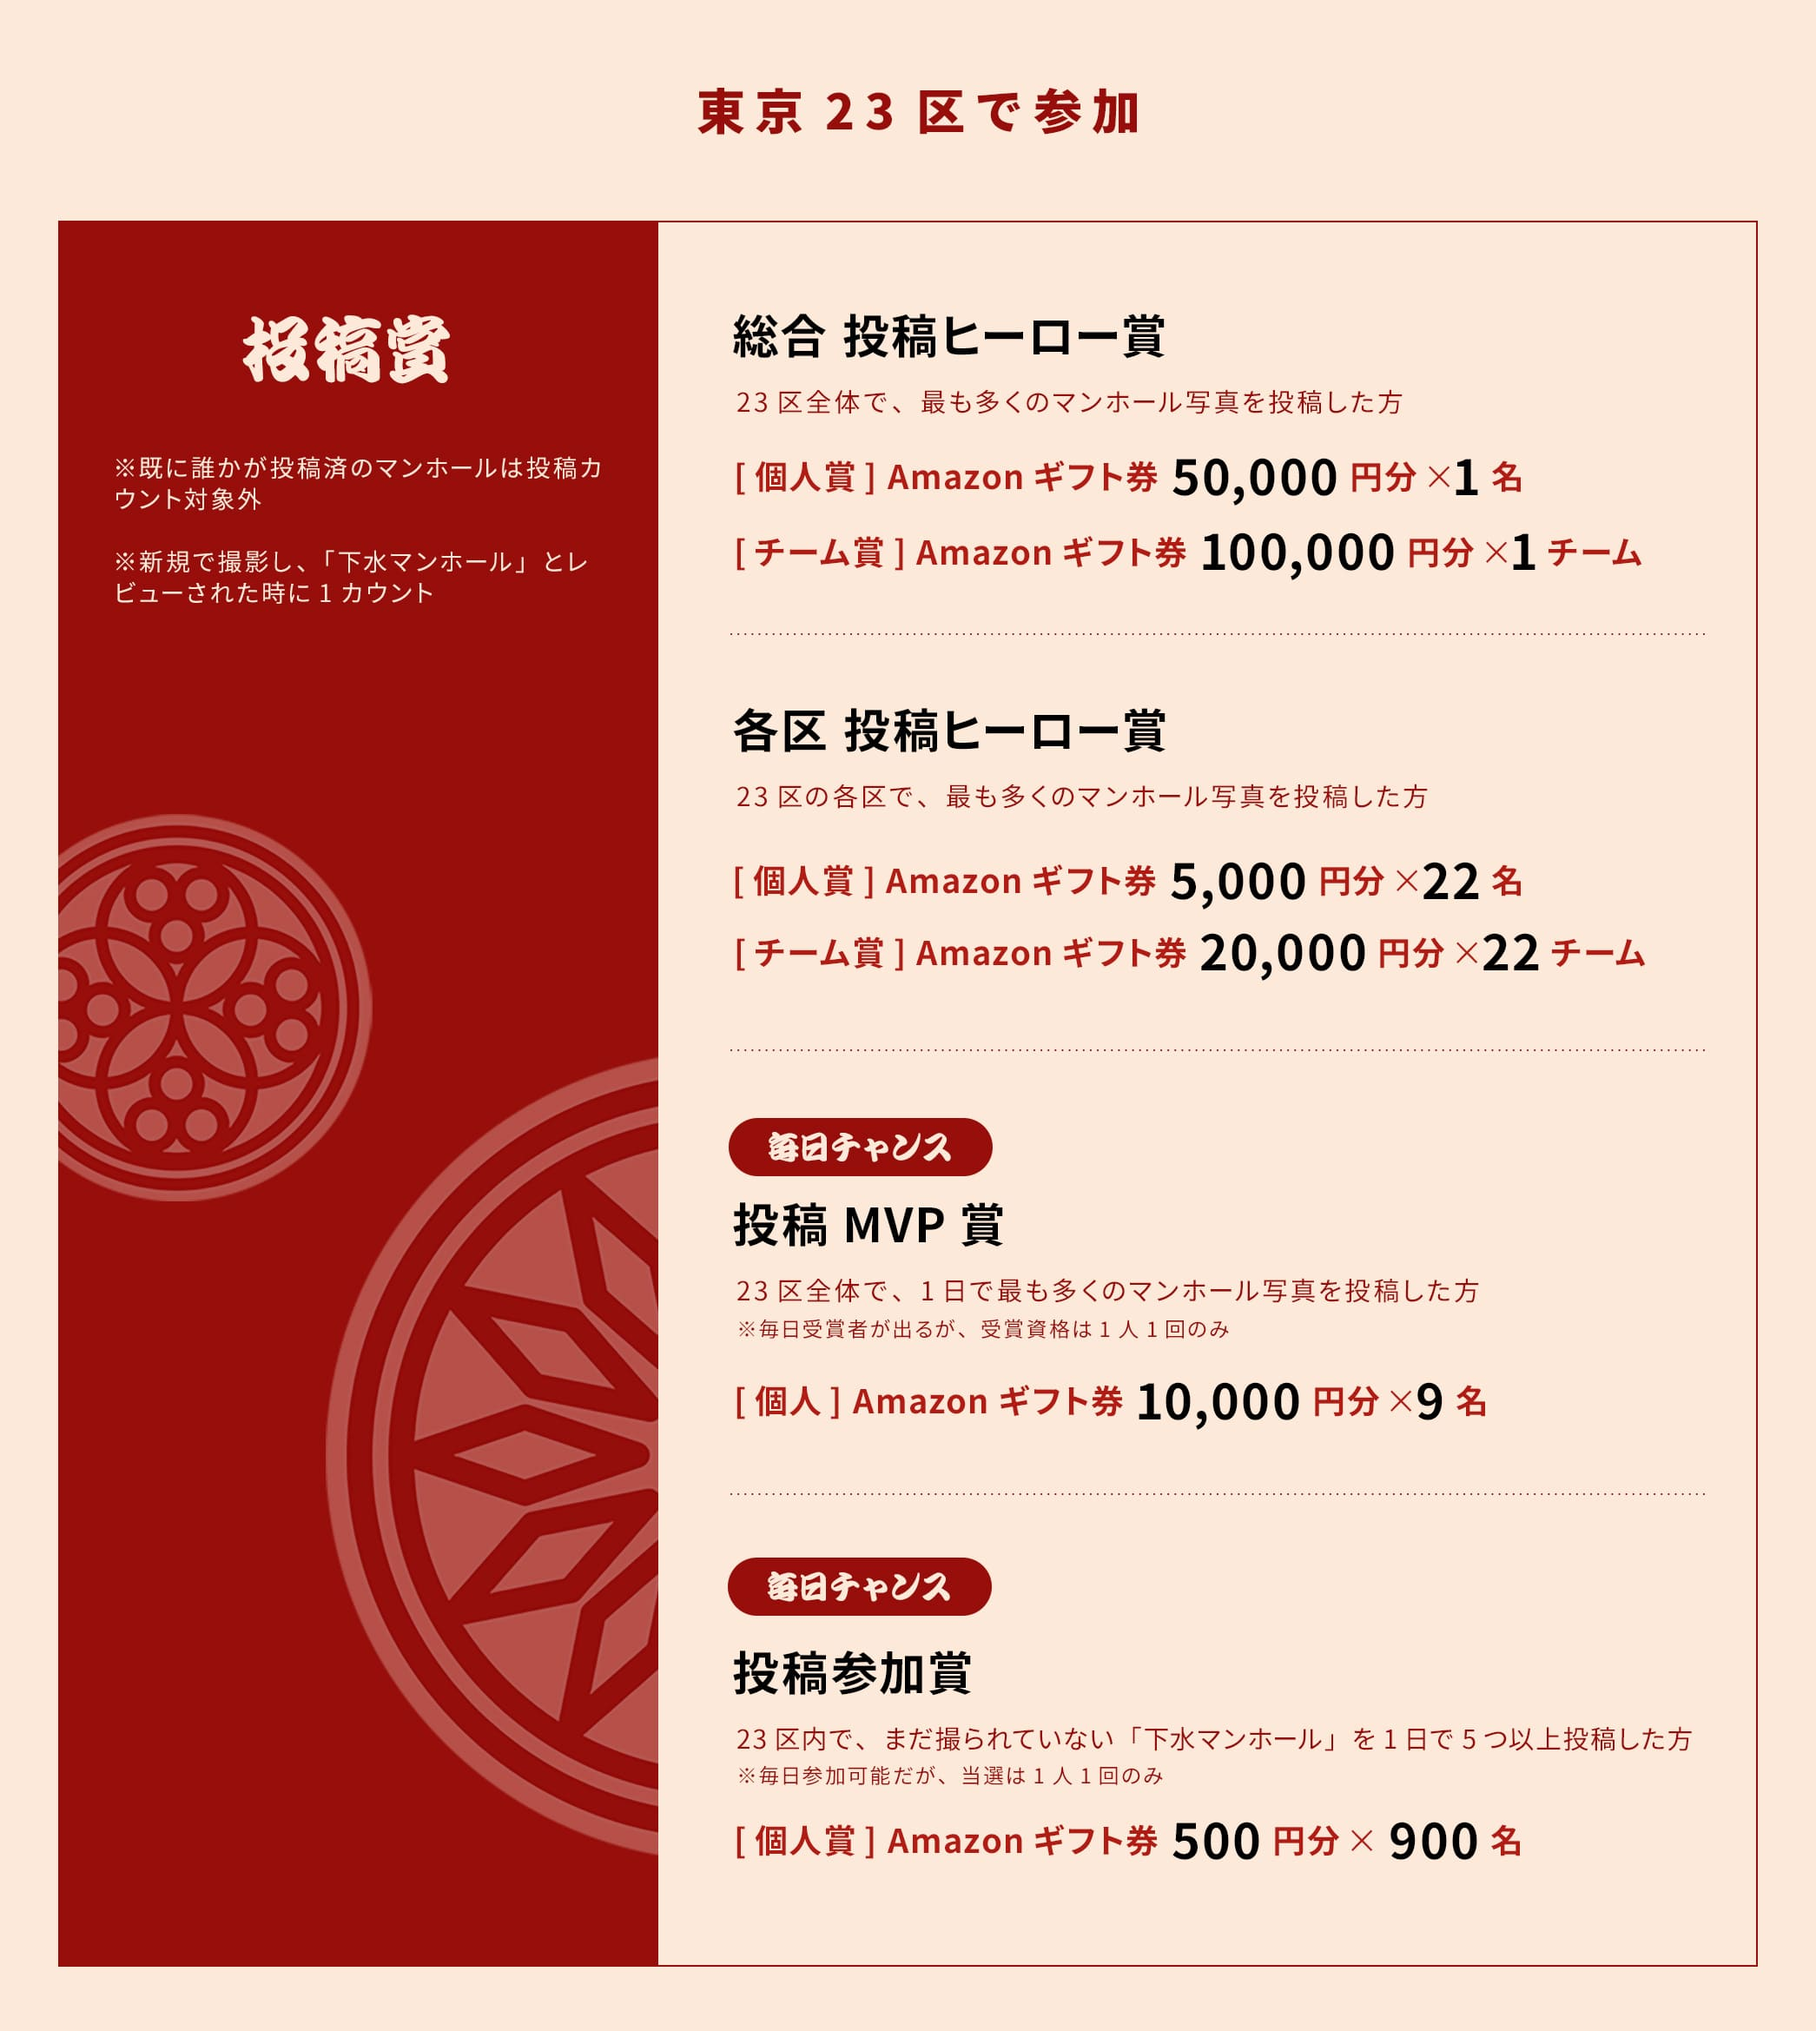
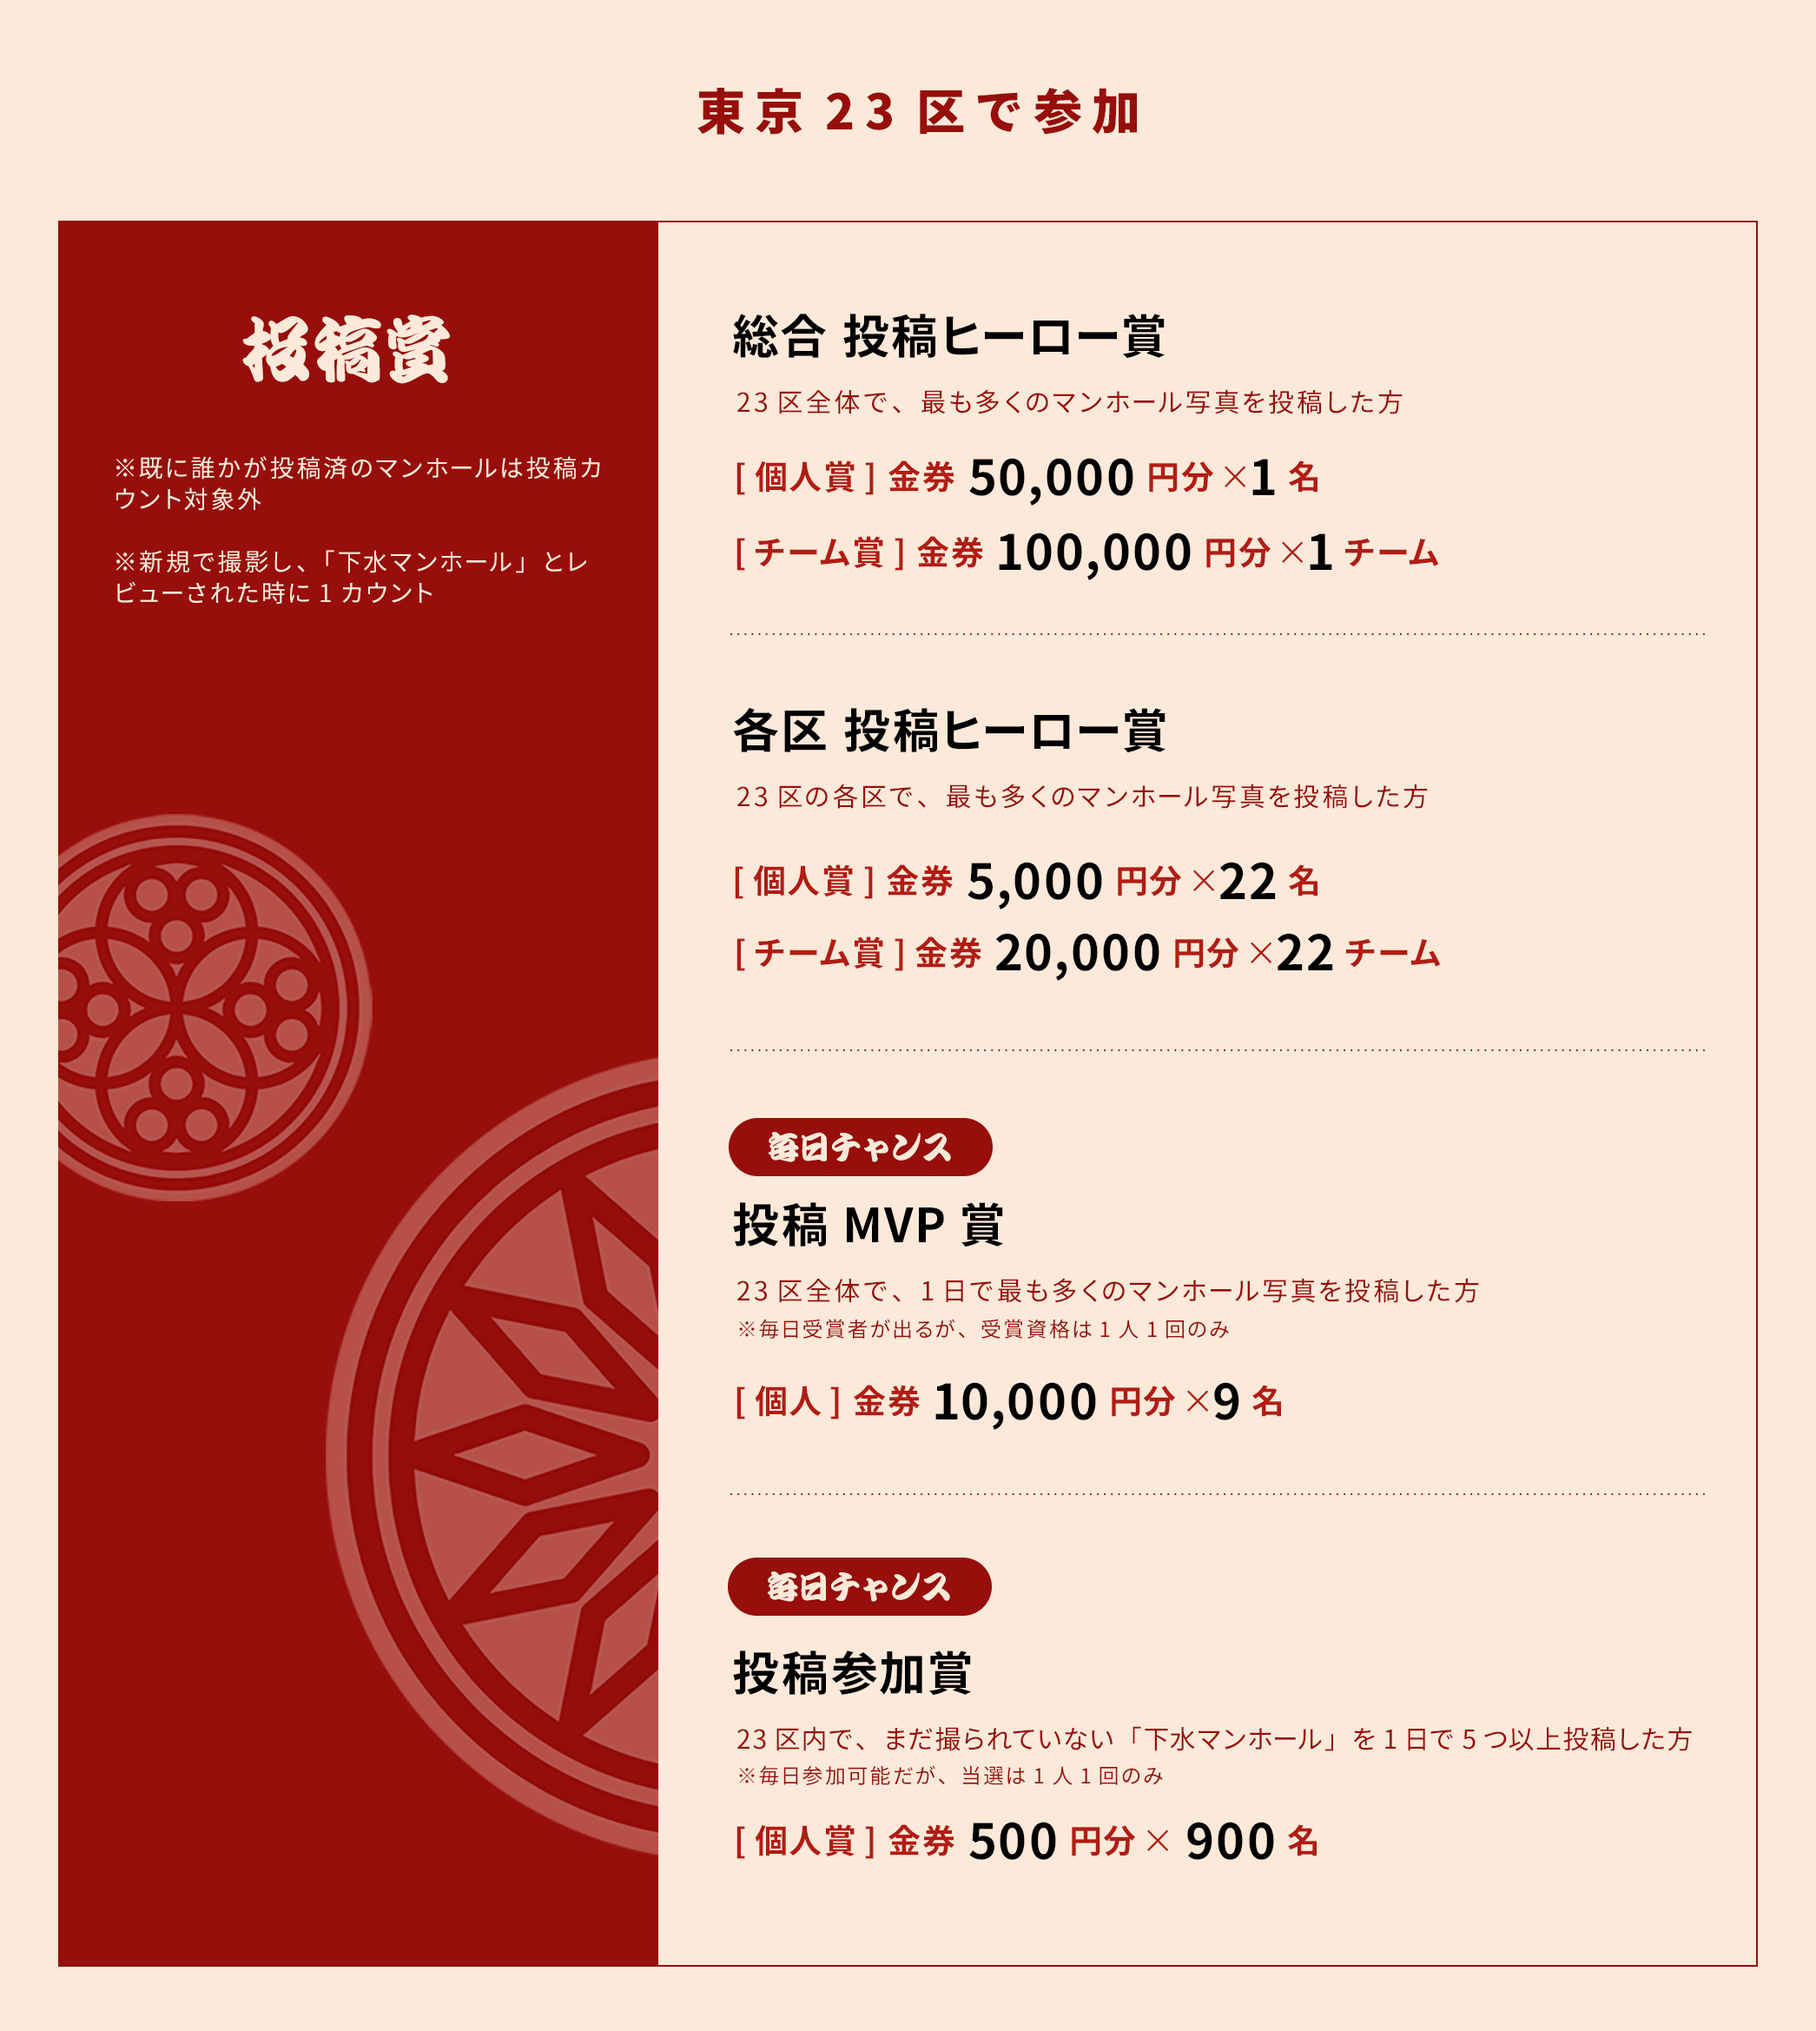
no message

diff --git a/docs/index.html b/docs/index.html
@@ -288,8 +288,6 @@ height="0" width="0" style="display:none;visibility:hidden"></iframe></noscript>
 4区分以上で最も多くの成績を得た方がいた場合、受賞は繰り上げで2位の成績の方が対象となります。<br>
 ・GoCrazy賞は、個人とチームで賞が分かれておりますが、重複した受賞はございません。チームでの受賞をした場合、個人での受賞は対象外となりますことご了承ください。<br>
 また、総合投稿ヒーロー賞の個人またはチームでの受賞があった場合も、GoCrazy賞の対象外となります。<br>
-・サポートコンプ賞の遠隔マンホール探索ヒーロー賞と写真レビューヒーロー賞は、各個人とチームで賞が分かれており、どちらも受賞することが可能です。<br>
-ただし、遠隔マンホール探索ヒーロー賞と写真レビューヒーロー賞の両方で個人またはチームで１位となった場合は、どちらか片方のみの受賞となります。<br>
 ・位置登録賞のマンホール探索ヒーロー賞とレビュー賞の写真レビューヒーロー賞は、各個人とチームで賞が分かれており、どちらも受賞することが可能です。<br>
 ただし、マンホール探索ヒーロー賞と写真レビューヒーロー賞の両方で個人またはチームで１位となった場合は、どちらか片方のみの受賞となります。
 </p>
@@ -497,7 +495,7 @@ height="0" width="0" style="display:none;visibility:hidden"></iframe></noscript>
 										<img src="./assets/img/ev_play_ct2.png" alt="02" class="">
 										<h4>
 											全国<br>
-											遠隔マンホール探索
+											マンホール探索
 										</h4>
 										<p>
 											アプリ内で、衛星写真を使ったマンホール探索をして位置登録をしましょう！<br>&nbsp;
@@ -565,7 +563,7 @@ height="0" width="0" style="display:none;visibility:hidden"></iframe></noscript>
 									</div>
 
 									公式Twitter / Instagram / Facebookアカウントのどれかをフォローし、<br>そのSNSで<span>「#マンホール聖戦　#東京23区コンプ祭り」</span>をつけて投稿してくださった方
-									<p class="sst">[個人賞]<br class="sp">Amazonギフト券<span>5,000</span>円分×<span>10</span>名</p>
+									<p class="sst">[個人賞]<br class="sp">金券<span>5,000</span>円分×<span>10</span>名</p>
 									<p class="ev_caption">
 										※ご自身で撮影したマンホール写真や、アプリ画面のスクショを添付していただくと当選率UP
 									</p>
